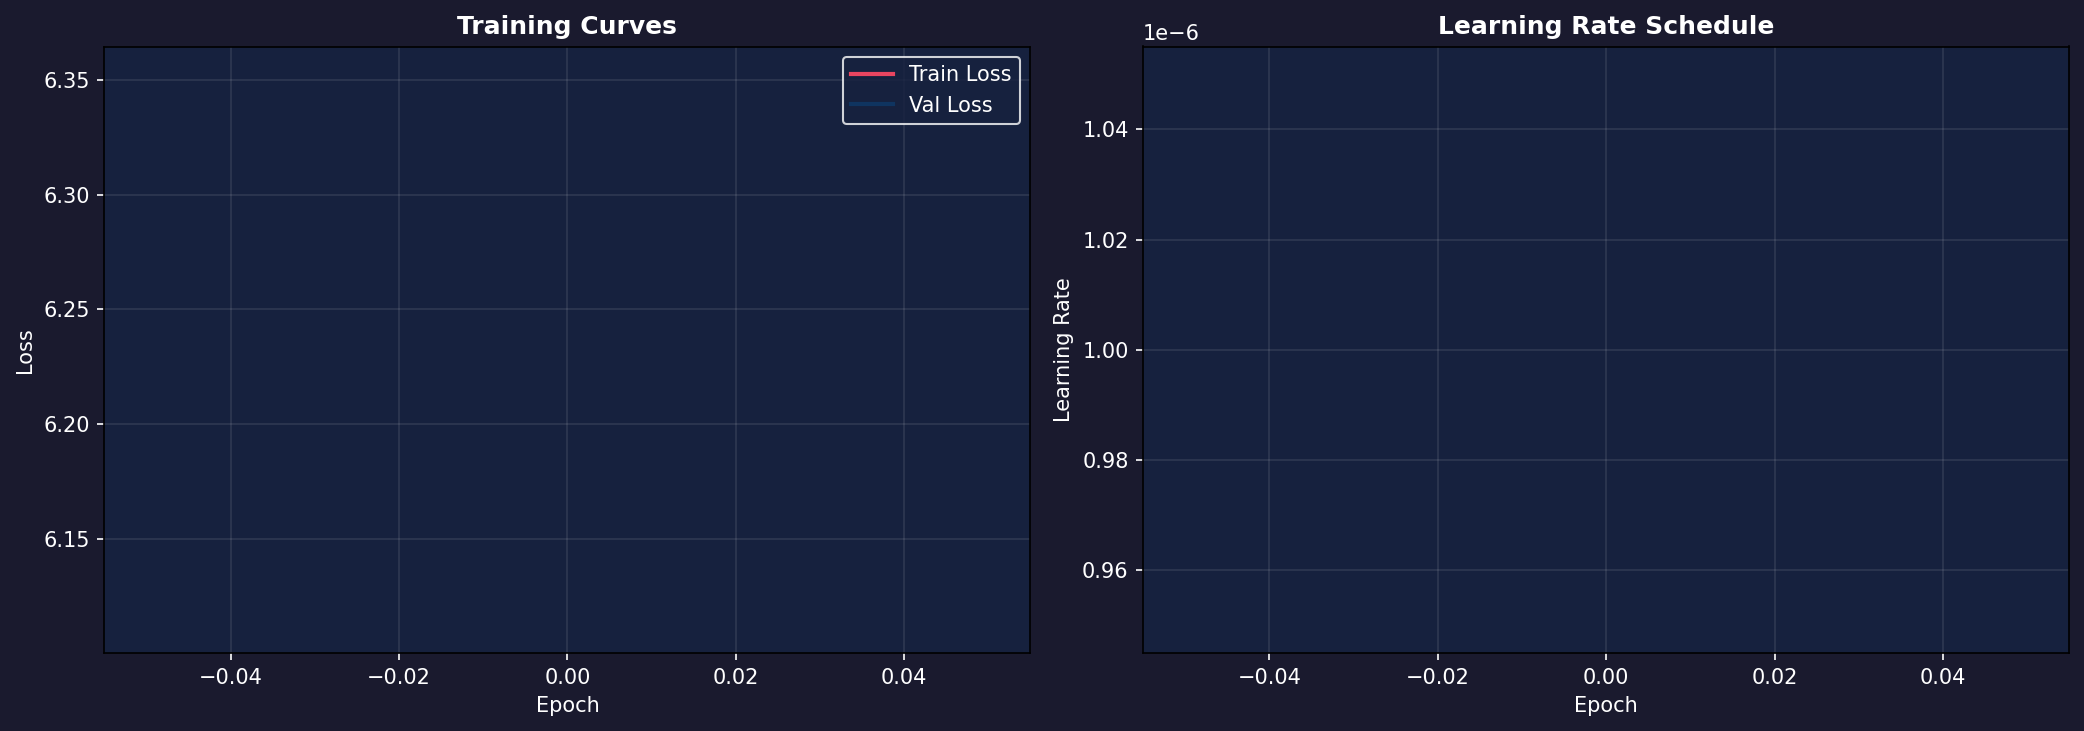
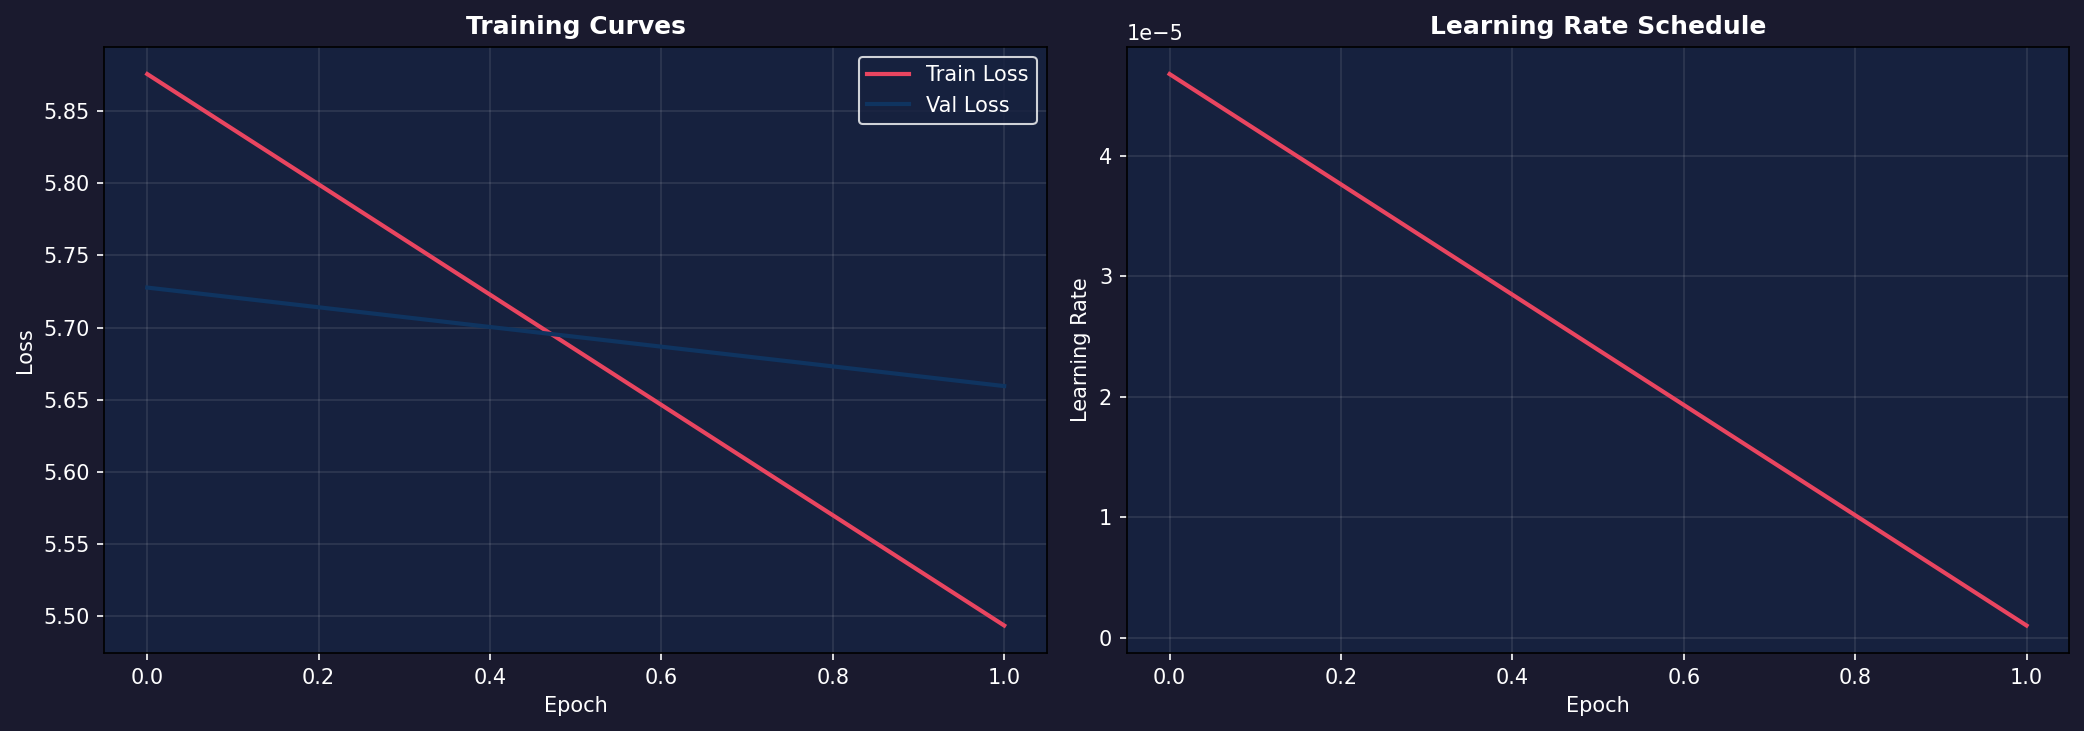
update trainning guide with gpu

diff --git a/TRAINING_GUIDE.md b/TRAINING_GUIDE.md
@@ -1,0 +1,74 @@
+# Hướng Dẫn Huấn Luyện (Training) Mô Hình Text-To-Music bằng GPU
+
+Chào mừng bạn đến với hướng dẫn chi tiết cách huấn luyện mô hình Transformer sinh nhạc. File này sẽ giải thích các thông số quan trọng, cấu hình phần cứng cần thiết (GPU) và ước lượng thời gian chạy để bạn có thể lên kế hoạch train một mô hình xịn cho Game của mình.
+
+---
+
+## 1. Tại Sao Phải Cần GPU?
+Mô hình Music Transformer của chúng ta có khoảng **7.7 triệu tham số (Parameters)**. 
+- Khi bạn chạy trên **CPU** (như lúc nãy), mỗi nốt nhạc (token) sinh ra phải duyệt qua hàng triệu phép tính phức tạp (Attention), làm tốc độ cực kỳ chậm (chỉ có thể chạy nháp với data siêu nhỏ).
+- Khi bạn chạy trên **GPU (Card Đồ Họa)** (ví dụ: NVIDIA RTX 3060, RTX 4070, hoặc Google Colab T4/A100), hàng ngàn lõi CUDA sẽ tính toán song song, giúp tốc độ học **nhanh hơn CPU từ 20 đến 50 lần**.
+
+---
+
+## 2. Các Thông Số (Parameters) Quan Trọng Khi Train
+
+Khi gõ lệnh `python train.py`, bạn có thể can thiệp vào các thông số sau để điều khiển quá trình học:
+
+| Thông số | Giải thích | Khuyến nghị cho Full Dataset (3000 bài) |
+| :--- | :--- | :--- |
+| `--data_dir` | Nơi chứa các file MIDI đã lọc. | `data/processed` |
+| `--epochs` | Số vòng lặp qua **toàn bộ** tập dữ liệu. Học ít quá thì mô hình chưa hiểu gì, học nhiều quá thì bị "học vẹt" (Overfitting). | `30` đến `50` vòng |
+| `--batch_size` | Số bài nhạc đưa vào học cùng một lúc. Batch_size càng to thì học càng nhanh, nhưng sẽ **tốn nhiều VRAM của Card màn hình**. | `8` hoặc `16` (Cần VRAM 6GB - 8GB) |
+| `--max_seq_len` | Chiều dài (số nốt nhạc) tối đa cho mỗi bài. Để `2048` thì bài nhạc sẽ rất dài và chi tiết, nhưng tốn nhiều RAM. | `1024` hoặc `2048` |
+| `--lr` | Tốc độ học (Learning Rate). Tốc độ mà mô hình điều chỉnh lại sai sót. | `0.0001` (Mặc định chuẩn) |
+
+---
+
+## 3. Lệnh Training Mẫu (Cho GPU)
+
+Đầu tiên, hãy chắc chắn rằng máy bạn (hoặc Colab) đã cài đặt PyTorch phiên bản hỗ trợ CUDA. Kiểm tra bằng cách gõ trong Python: `import torch; print(torch.cuda.is_available())` (Ra `True` là thành công).
+
+**Lệnh Train Chuẩn (Full Dataset 3000 bài):**
+```bash
+python train.py --epochs 50 --batch_size 16 --max_seq_len 2048 --data_dir data/processed
+```
+*(Nếu báo lỗi "Out of Memory - Hết VRAM", hãy hạ `--batch_size` xuống `8` hoặc `4`)*
+
+**Lệnh Train Cấp Tốc (Test xem GPU chạy mượt chưa):**
+```bash
+python train.py --epochs 3 --batch_size 4 --max_seq_len 512 --max_files 500
+```
+
+---
+
+## 4. Ước Lượng Thời Gian Huấn Luyện (Training Time)
+
+Với mô hình **7.7 triệu tham số** và bộ dữ liệu **~3.000 file MIDI** (mỗi file bị cắt ở mức `max_seq_len=2048`), thời gian ước lượng dựa trên các Card Đồ Họa phổ biến hiện nay như sau:
+
+> ⚙️ **Thông số tính toán cơ sở:**
+> - Số lượng bài (Samples): ~3000 bài.
+> - Nếu `batch_size = 16`, chúng ta sẽ có khoảng **187 steps (bước)** mỗi Epoch.
+
+### ⏱️ Trên Google Colab (Free GPU T4 16GB) / Laptop RTX 3060:
+- Thời gian cho 1 Epoch: Khoảng **45 giây đến 1 phút**.
+- Tổng thời gian cho 50 Epochs: **~45 phút đến 1 tiếng**.
+- *Đánh giá:* Rất khả thi để chạy xong ngay trong 1 buổi chiều!
+
+### ⏱️ Trên GPU Mạnh (RTX 4090 / Colab Pro A100):
+- Thời gian cho 1 Epoch: Khoảng **15 - 20 giây**.
+- Tổng thời gian cho 50 Epochs: **Chưa tới 15 phút**.
+- *Đánh giá:* Nhanh như chớp!
+
+### 🐌 Nếu cố chấp chạy bằng CPU (Intel i5/i7 - Ryzen 5/7):
+- Thời gian cho 1 Epoch: Thường mất từ **20 phút đến 40 phút**.
+- Tổng thời gian cho 50 Epochs: **15 - 30 TIẾNG**.
+- *Đánh giá:* Rất dễ làm máy quá nhiệt và không hiệu quả.
+
+---
+
+## 5. Lời Khuyên Quý Báu Cho Dự Án Game BGM
+
+1. **Giai đoạn đầu (Tiết kiệm thời gian):** Đừng cắm đầu train 50 Epochs ngay. Hãy train khoảng `10 epochs`, sau đó dừng lại, lấy mô hình sinh ra từ thư mục `checkpoints/best_model.pt` đi tạo nhạc thử xem nó đã ra được cấu trúc nhạc chưa.
+2. **Sử dụng Google Colab:** Nếu máy tính của bạn không có Card rời NVIDIA (ví dụ xài Macbook hoặc Laptop văn phòng), hãy nén toàn bộ project này lại (nhớ dùng file `.gitignore` để xóa bớt các file rác), up lên Google Drive, và mở bằng Google Colab. Bật T4 GPU lên và chạy hoàn toàn miễn phí.
+3. **Hiện tượng Overfitting:** Nếu bạn thấy giá trị `Val Loss` bắt đầu tăng lên dù `Train Loss` tiếp tục giảm, điều đó có nghĩa là AI đang học vẹt. Quá trình huấn luyện nên dừng lại ở điểm `Val Loss` thấp nhất (Hệ thống đã tự động lưu lại `best_model.pt` cho bạn rồi).

diff --git a/README.md b/README.md
@@ -5,8 +5,8 @@ Hệ thống AI sinh nhạc nền cho game từ mô tả văn bản, sử dụng
 ## ✨ Features
 
 - **Text-to-Music Generation**: Sinh nhạc MIDI từ mô tả game prompt (mood, genre, scene, tempo, instrument, energy)
-- **Music Transformer**: Mô hình tự xây dựng (~8M parameters) với RPE và Cross-Attention
-- **REMI Tokenization**: Biểu diễn MIDI hiệu quả (~388 tokens vocabulary)
+- **Music Transformer**: Mô hình tự xây dựng (~7.7M parameters) với RoPE và Cross-Attention
+- **REMI Tokenization**: Biểu diễn MIDI hiệu quả (~336 tokens vocabulary)
 - **Multiple Sampling**: Temperature, Top-k, Top-p (Nucleus) sampling
 - **MIDI → WAV**: Render audio bằng FluidSynth + SoundFont
 - **Web Demo**: FastAPI backend + Premium dark-theme frontend
@@ -18,7 +18,7 @@ Hệ thống AI sinh nhạc nền cho game từ mô tả văn bản, sử dụng
 User Prompt → Text Encoder → Cross-Attention
                                     ↓
           [BOS] → Token Embedding → Decoder (×6) → Linear → Softmax → Next Token
-                   (+ Relative Position Encoding)
+                   (+ Rotary Position Encoding - RoPE)
                                     ↓
                               MIDI Tokens → MIDI File → FluidSynth → WAV
 ```
@@ -35,7 +35,7 @@ text-to-music/
 │   │   └── preprocessing.py     # Data filtering & labeling
 │   ├── model/
 │   │   ├── embedding.py         # Token + Relative Position embeddings
-│   │   ├── attention.py         # Self-Attention (RPE) + Cross-Attention
+│   │   ├── attention.py         # Self-Attention (RoPE, GQA) + Cross-Attention
 │   │   ├── layers.py            # FFN + DecoderBlock
 │   │   ├── prompt_encoder.py    # Attribute-based prompt encoder
 │   │   └── transformer.py       # Full Music Transformer model
@@ -164,11 +164,12 @@ Tất cả hyperparameters trong `config/config.yaml`:
 - **Architecture**: LLaMA-style Conditional Music Transformer (Decoder-only)
   - **Normalization**: RMSNorm (Root Mean Square Normalization)
   - **Feed-Forward**: SwiGLU (Swish-Gated Linear Unit)
-- **Parameters**: ~8.2M
-- **Attention**: FlashAttention (SDPA) + Relative Position Encoding (RPE)
+- **Parameters**: ~7.7M
+- **Attention**: FlashAttention (SDPA) + Rotary Position Encoding (RoPE)
+- **Advanced Optimizations**: GQA (Grouped Query Attention), QK-Norm, Weight Tying
 - **Conditioning**: Cross-Attention (Attribute / Text NLP Embedding)
 - **Tokenizer**: REMI (~336 vocab)
-- **GPU Requirement**: Tối ưu hóa cực tốt. Có thể train dễ dàng trên RTX 4060 (8GB VRAM) với Mixed Precision (AMP).
+- **GPU Requirement**: Tối ưu hóa cực tốt. Có thể train dễ dàng trên RTX 4060 (8GB VRAM) hoặc Colab T4.
 
 ## 📚 References
 